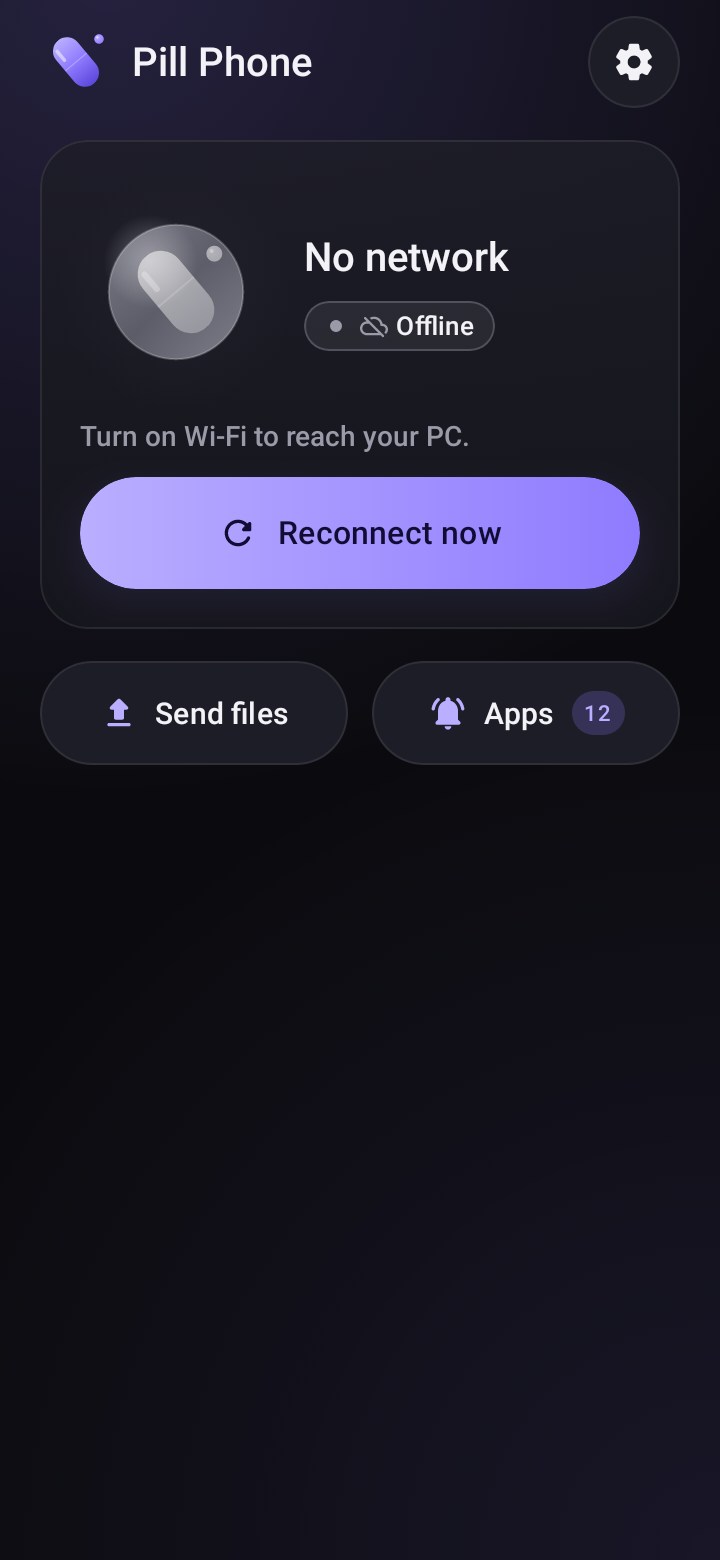
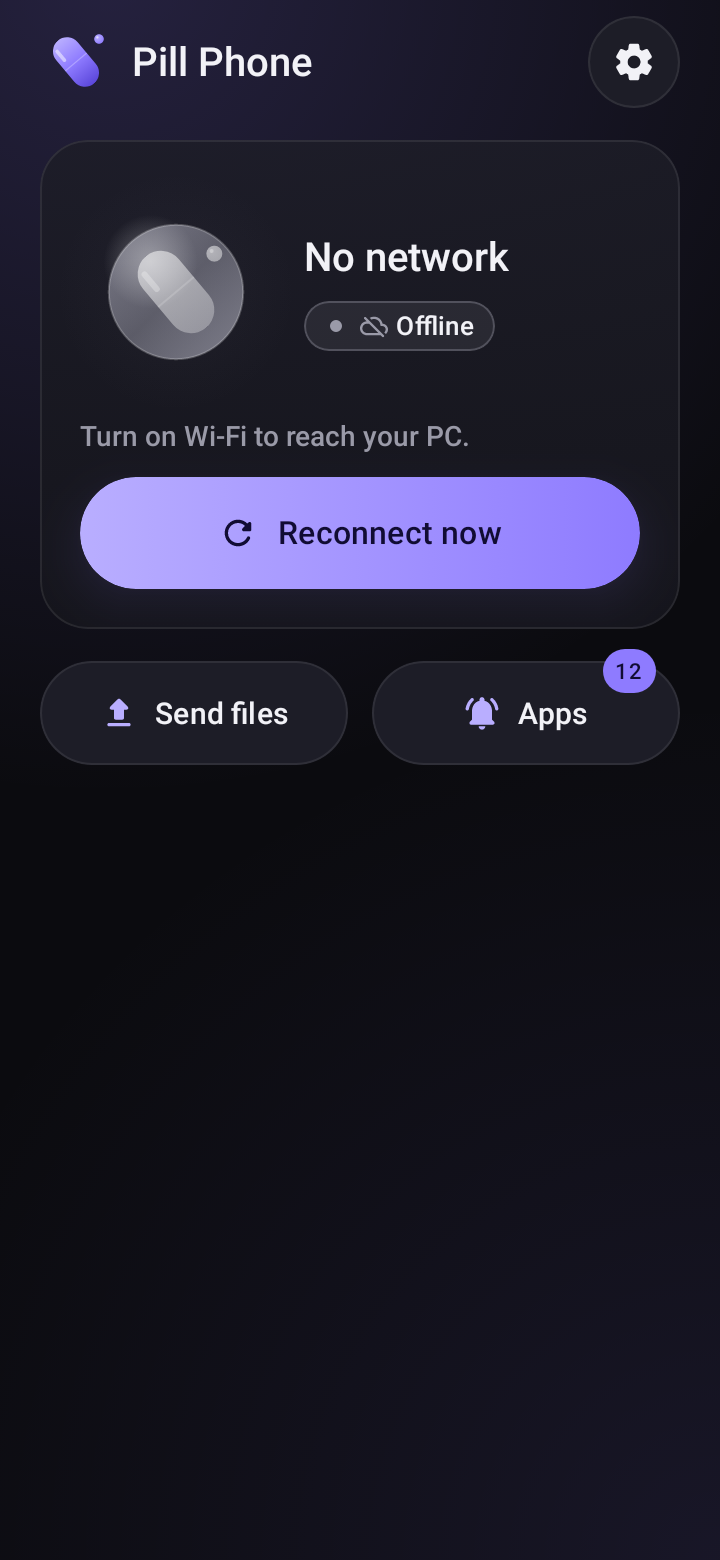
Home: badge on the Apps pill rim, wrap-safe storage lines, calmer offline states, RU shots
Claude-Session: https://claude.ai/code/session_01KhjhPemefduzY42RFZvTNC

Changed region(s): [[0.6111, 0.4, 0.9167, 0.4923]]

diff --git a/android/app/src/main/java/app/pill/phone/ui/screens/HomeScreen.kt b/android/app/src/main/java/app/pill/phone/ui/screens/HomeScreen.kt
@@ -19,6 +19,7 @@ import androidx.compose.foundation.layout.Spacer
 import androidx.compose.foundation.layout.defaultMinSize
 import androidx.compose.foundation.layout.fillMaxWidth
 import androidx.compose.foundation.layout.height
+import androidx.compose.foundation.layout.offset
 import androidx.compose.foundation.layout.padding
 import androidx.compose.foundation.layout.size
 import androidx.compose.foundation.layout.statusBarsPadding
@@ -182,11 +183,11 @@ private fun Hero(ui: HomeUi, actions: HomeActions, modifier: Modifier) {
                         Text(title, style = MaterialTheme.typography.titleLarge, color = c.text)
                         if (sub != null) {
                             Spacer(Modifier.height(2.dp))
-                            Text(sub, style = MaterialTheme.typography.bodyMedium, color = c.textDim, maxLines = 1, overflow = TextOverflow.Ellipsis)
+                            Text(sub, style = MaterialTheme.typography.bodyMedium, color = c.textDim, maxLines = 2, overflow = TextOverflow.Ellipsis)
                         }
                     }
                 }
-                AnimatedVisibility(ui.link != LinkUi.Unpaired && ui.link != LinkUi.Revoked, enter = Motion.enterItem, exit = Motion.exitItem) {
+                AnimatedVisibility(ui.link == LinkUi.Connected || ui.link == LinkUi.NotFound || ui.link == LinkUi.NoNetwork, enter = Motion.enterItem, exit = Motion.exitItem) {
                     RouteBadge(ui.route, Modifier.padding(top = 10.dp), waitingForPc = relayWaiting, compact = true)
                 }
             }
@@ -239,21 +240,22 @@ private fun QuickActions(ui: HomeUi, a: HomeActions, modifier: Modifier) {
 private fun ActionPill(text: String, icon: ImageVector, onClick: () -> Unit, modifier: Modifier, badge: Int? = null) {
     val c = Pill.colors
     val tint = if (c.dark) c.accentSoft else c.accent
-    Row(
-        modifier.height(52.dp).clip(CircleShape).background(c.surfaceHigh).border(1.dp, c.border, CircleShape)
-            .pressable(onClick = onClick).padding(horizontal = 16.dp),
-        horizontalArrangement = Arrangement.Center,
-        verticalAlignment = Alignment.CenterVertically,
-    ) {
-        Icon(icon, null, Modifier.size(20.dp), tint = tint)
-        Spacer(Modifier.width(8.dp))
-        Text(text, Modifier.weight(1f, fill = false), style = MaterialTheme.typography.labelLarge, color = c.text, maxLines = 1, overflow = TextOverflow.Ellipsis)
-        AnimatedVisibility(badge != null, enter = Motion.enterItem, exit = Motion.exitItem) {
+    // the pill is clipped to its shape, the badge sits on its rim (a notification-style count, never steals label width)
+    Box(modifier.pressable(onClick = onClick)) {
+        Row(
+            Modifier.fillMaxWidth().height(52.dp).clip(CircleShape).background(c.surfaceHigh).border(1.dp, c.border, CircleShape).padding(horizontal = 12.dp),
+            horizontalArrangement = Arrangement.Center,
+            verticalAlignment = Alignment.CenterVertically,
+        ) {
+            Icon(icon, null, Modifier.size(20.dp), tint = tint)
+            Spacer(Modifier.width(8.dp))
+            Text(text, Modifier.weight(1f, fill = false), style = MaterialTheme.typography.labelLarge, color = c.text, maxLines = 1, overflow = TextOverflow.Ellipsis)
+        }
+        AnimatedVisibility(badge != null, Modifier.align(Alignment.TopEnd).offset(x = (-12).dp, y = (-6).dp), enter = Motion.enterItem, exit = Motion.exitItem) {
             Box(
-                Modifier.padding(start = 8.dp).defaultMinSize(minWidth = 22.dp, minHeight = 22.dp).clip(CircleShape)
-                    .background(c.accent.copy(alpha = if (c.dark) 0.22f else 0.14f)).padding(horizontal = 6.dp),
+                Modifier.defaultMinSize(minWidth = 22.dp, minHeight = 22.dp).clip(CircleShape).background(c.accent).padding(horizontal = 6.dp),
                 contentAlignment = Alignment.Center,
-            ) { Text("${badge ?: 0}", style = MaterialTheme.typography.labelSmall, color = tint, maxLines = 1) }
+            ) { Text("${badge ?: 0}", style = MaterialTheme.typography.labelSmall, color = c.onAccent, maxLines = 1) }
         }
     }
 }

diff --git a/android/app/src/main/java/app/pill/phone/ui/screens/DeviceCard.kt b/android/app/src/main/java/app/pill/phone/ui/screens/DeviceCard.kt
@@ -142,10 +142,8 @@ private fun Usage(label: String, free: Long, total: Long, modifier: Modifier) {
     Column(modifier) {
         Text(label, style = MaterialTheme.typography.bodySmall, color = c.textDim)
         Spacer(Modifier.height(2.dp))
-        Text(
-            stringResource(R.string.dev_free, FileNames.humanSize(free)) + " " + stringResource(R.string.dev_of, FileNames.humanSize(total)),
-            style = MaterialTheme.typography.bodySmall, color = c.text, maxLines = 1, overflow = TextOverflow.Ellipsis,
-        )
+        Text(stringResource(R.string.dev_free, FileNames.humanSize(free)), style = MaterialTheme.typography.bodyMedium, color = c.text, maxLines = 1, overflow = TextOverflow.Ellipsis)
+        Text(stringResource(R.string.dev_of, FileNames.humanSize(total)), style = MaterialTheme.typography.bodySmall, color = c.textDim, maxLines = 1, overflow = TextOverflow.Ellipsis)
         Spacer(Modifier.height(8.dp))
         SpringProgress(used, height = 4.dp)
     }

diff --git a/android/app/src/test/java/app/pill/phone/ScreenshotTest.kt b/android/app/src/test/java/app/pill/phone/ScreenshotTest.kt
@@ -103,6 +103,14 @@ class ScreenshotTest {
         HomeScreen(connectedQuiet.copy(route = app.pill.phone.net.Route.Lan, status = busyPhone, phoneExpanded = true), HomeActions())
     }
 
+    @Config(qualifiers = "ru-w360dp-h800dp-xhdpi")
+    @Test fun homeConnectedRu() = shoot("home-connected-ru") {
+        HomeScreen(connectedQuiet.copy(route = app.pill.phone.net.Route.Relay, status = busyPhone, phoneExpanded = true, mirroredApps = 128), HomeActions())
+    }
+
+    @Config(qualifiers = "ru-w360dp-h800dp-xhdpi")
+    @Test fun homeNotFoundRu() = shoot("home-notfound-ru") { HomeScreen(connectedQuiet.copy(link = LinkUi.NotFound), HomeActions()) }
+
     @Config(qualifiers = "w360dp-h900dp-xhdpi")
     @Test fun homeConnectedFiles() = shoot("home-connected-files") { HomeScreen(connectedQuiet.copy(transfers = transfers, route = app.pill.phone.net.Route.Lan), HomeActions()) }
 
